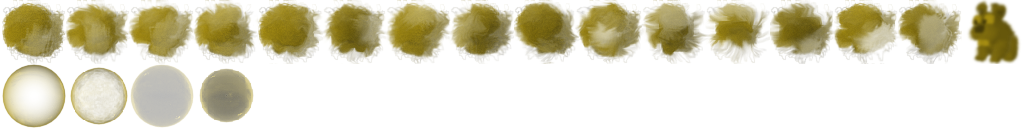
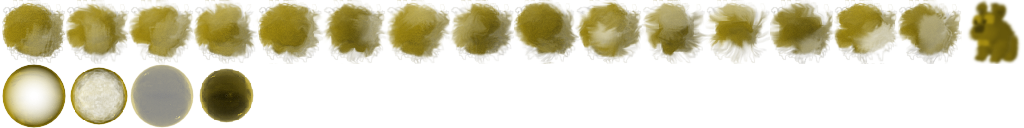
Added Pressurized Air

Changed region(s): [[0.0, 0.5, 0.25, 1.0]]

diff --git a/Clonkworks.c4d/Environment.c4d/Gas.c4d/Pressurized.c4d/Script.c b/Clonkworks.c4d/Environment.c4d/Gas.c4d/Pressurized.c4d/Script.c
@@ -1,0 +1,48 @@
+#include GS__
+#strict 2
+
+public func StartCon(){ return(10); } //At what size does this gas start with?
+public func EndCon(){ return(100); } //At what size will this gas finally fade out?
+public func SkyFade(){ return(3); } //Speed for fading in the Sky material. 1 or 0 is rather quick.
+public func TunnelFade(){ return(3); } //Speed for fading in anything other than sky.
+public func LiquidFade(){ return(50); } //Speed for fading in liquid.
+public func FadeOffset(){ return(30); } //when does the object start fading?
+public func GasShiftChance(){ if(GetMaterial() == Material("Sky")) return(5); else return(20);  } //How commonly does the gas change direction?
+public func FadeSize(){ return(RandomX(1,3)); } //when the gas fades, how much does it fade?
+
+protected func RandomFloat(){ return(RandomX(100,350)); } //Random Float Stat
+protected func AlphaOffset(){ return(RandomX(160,240)); } //Offset in alpha so every bit of smoke doesnt feel the same.
+protected func StartSizeOffset(){ return(RandomX(0,50)); } //Differenciate all gasses even more.
+
+public func GasCustomTimer(){
+  if(!GBackLiquid()){
+  var Victims = FindObjects(Find_Distance(GetCon()/5),Find_NoContainer(),Find_Or(Find_Category(C4D_Living),Find_Category(C4D_Vehicle),Find_Category(C4D_Object)),Find_Not(Find_ID(GEY1)),Find_Not(Find_ID(GEY2)),Sort_Random());
+  for(var Victim in Victims){
+    //all nearbv objects are to be flung!
+    var Power = 5;
+    var Ang = Angle(GetX(),GetY(),GetX(Victim),GetY(Victim));
+    var Xd = Sin(Ang, Power);
+    var Yd = -Cos(Ang, Power);
+
+    Fling(Victim,Xd,Yd,1,1);
+  }
+  }else{
+    var Sawnicks = FindObjects(Find_Distance(GetCon()/7),Find_NoContainer(),Find_OCF(OCF_Alive));
+    //help a drowning creature breathe.
+    for(var Sawnick in Sawnicks){
+      if(GetBreath(Sawnick) > 50) continue;
+      if(!Sawnick->GBackLiquid()) continue;
+      DoBreath(100,Sawnick);
+      if(Sawnick->~IsClonk()) Sound("Breath");
+      else Sound("Snuff*");
+      RemoveObject();
+      break;
+    }
+  }
+
+  //if(GBackLiquid()) SetObjectBlitMode(2);
+  return(1); 
+}
+
+public func GasColor(){ return(RGBa(255,255,255)); } //used by pump
+//public func GasName(){ return("Toxic Gas"); } //used by pump, used instead of GetName to prevent potential sync errors

diff --git a/Clonkworks.c4d/Items.c4d/Containers.c4d/AirCanister.c4d/Script.c b/Clonkworks.c4d/Items.c4d/Containers.c4d/AirCanister.c4d/Script.c
@@ -1,0 +1,16 @@
+#include GCAN
+#strict 2
+
+public func CanisterGas() { return(GS_3); }
+public func CanisterGasName() { return("Air"); }
+
+global func GetCanisterType(iType)
+{
+  if(iType == GS_3) return(PCAN);
+  return(_inherited(iType));
+}
+
+func Initialize(){
+  iFillLevel=50;
+  iFillType=GS_3;
+}

diff --git a/Clonkworks.c4d/Items.c4d/Containers.c4d/NaturalCanister.c4d/Script.c b/Clonkworks.c4d/Items.c4d/Containers.c4d/NaturalCanister.c4d/Script.c
@@ -44,3 +44,7 @@ public func Purchase(int plr, object buyobj)
   if (obj = FindObject (GAEX, 50 - GetX (), 49 - GetY ()))
     obj -> GAEX::PlayerHasBought (plr, this ());
 }
+
+public func SellTo(){
+  if(FindObject(GAEX)) return(GCAN);
+}
